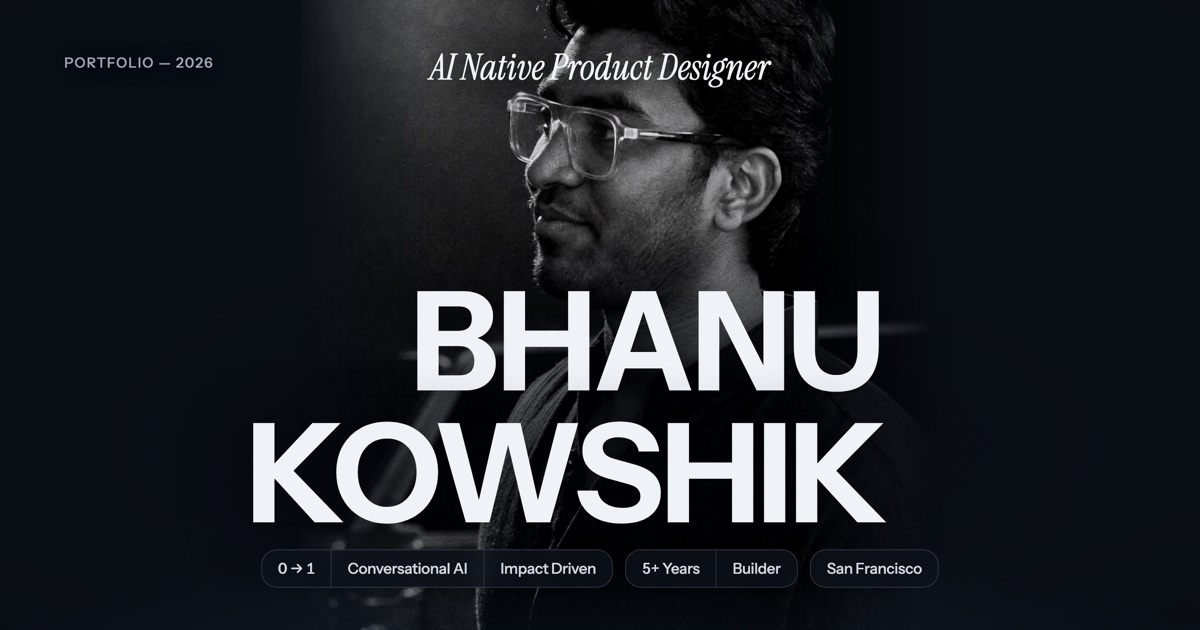
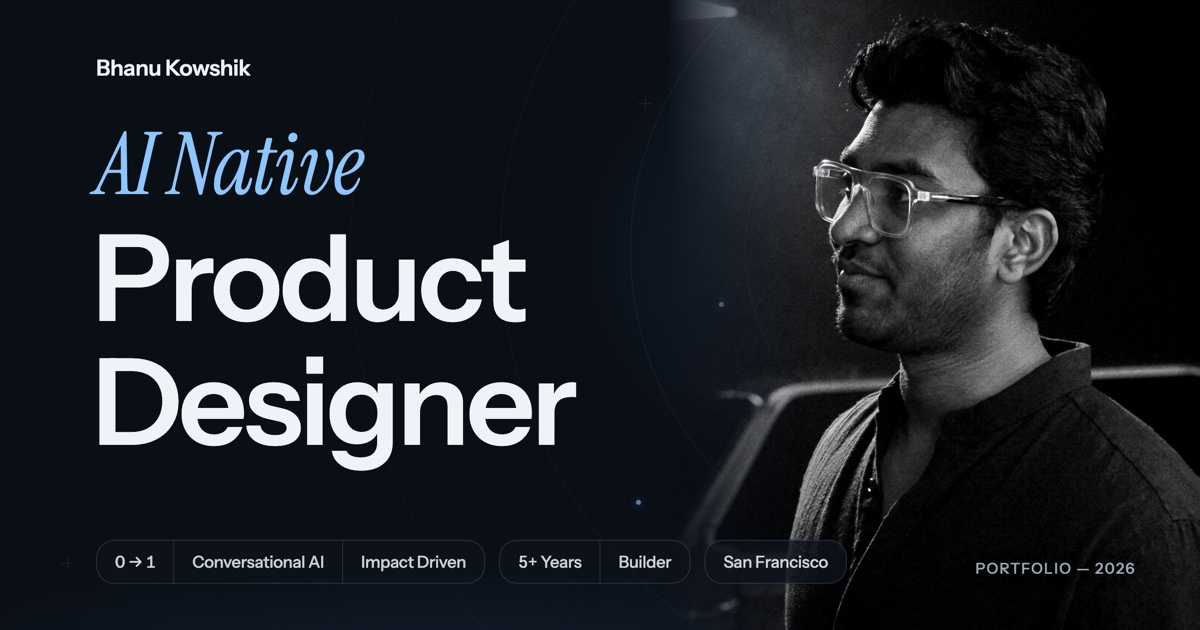
feat(share): og card v8 — the split returns, cleaner
The left-right layout comes back by request: 'AI Native' azure serif over
'Product / Designer' display sans on the left, cinematic Soul portrait on
the right — now without the blue face cast (tint confined to the background
haze corner) and without the sparks.

diff --git a/og-image.html b/og-image.html
@@ -1,7 +1,7 @@
 <!DOCTYPE html>
-<!-- Source for images/og-image.jpg (social share card) — v7:
-     full-bleed cinematic Soul portrait, centered PORT/FOLIO-style stacked
-     lockup over it (PRODUCT white / DESIGNER azure), pills centered bottom.
+<!-- Source for images/og-image.jpg (social share card) — v6:
+     cinematic Soul portrait right (images/bhanu-cinematic.jpg), "AI Native
+     Product Designer" display type left, three grouped fact pills bottom.
      Re-render after edits:
      "/Applications/Google Chrome.app/Contents/MacOS/Google Chrome" --headless=new --disable-gpu \
        --screenshot=og-2x.png --window-size=1200,630 --force-device-scale-factor=2 \
@@ -23,81 +23,99 @@
       color: #EFF3F8;
     }
 
-    /* ── the portrait, full-bleed backdrop; edges dissolve into navy ── */
-    .bg {
-      position: absolute; inset: 0; z-index: 1; overflow: hidden;
-      -webkit-mask-image: linear-gradient(to right, transparent 24.5%, #000 36%, #000 66%, transparent 78%);
-              mask-image: linear-gradient(to right, transparent 24.5%, #000 36%, #000 66%, transparent 78%);
-    }
-    .bg img {
-      position: absolute; width: 640px; left: 300px; top: -102px;
-      filter: brightness(.9) contrast(1.05);
-    }
-    /* a quiet dark pool behind the lockup so the type owns the lower half —
-       the face above stays clear */
-    .scrim {
-      position: absolute; inset: 0; z-index: 2;
-      background: radial-gradient(ellipse 58% 42% at 50% 70%, rgba(3,6,12,.46) 0%, rgba(3,6,12,.16) 55%, transparent 78%);
+    /* azure bloom + a breath along the bottom */
+    .bloom {
+      position: absolute; inset: 0;
+      background:
+        radial-gradient(ellipse 44% 58% at 80% 40%, rgba(92,169,255,.16) 0%, rgba(92,169,255,.06) 52%, transparent 76%),
+        radial-gradient(ellipse 80% 30% at 38% 108%, rgba(92,169,255,.10) 0%, transparent 70%);
     }
 
-    /* ── the lockup — stacked, staggered, two-tone ── */
-    .eyebrow {
-      position: absolute; left: 50%; top: 44px; transform: translateX(-50%); z-index: 4;
-      font-family: 'Instrument Serif', Georgia, serif; font-style: italic; font-weight: 400;
-      font-size: 36px; color: #EFF3F8; white-space: nowrap;
-      text-shadow: 0 4px 34px rgba(3,6,12,.85);
+    /* rings centered near the portrait's face */
+    .ring {
+      position: absolute; left: 960px; top: 250px; transform: translate(-50%, -50%);
+      border: 1px solid rgba(239,243,248,.07); border-radius: 50%;
     }
-    .t1 {
-      position: absolute; left: 50%; top: 272px; transform: translateX(calc(-50% + 46px)); z-index: 4;
-      font-weight: 700; font-size: 138px; line-height: 1; letter-spacing: -0.022em;
-      text-transform: uppercase; color: #EFF3F8; white-space: nowrap;
-      text-shadow: 0 8px 60px rgba(3,6,12,.85);
-    }
-    .t2 {
-      position: absolute; left: 50%; top: 404px; transform: translateX(calc(-50% - 34px)); z-index: 4;
-      font-weight: 700; font-size: 138px; line-height: 1; letter-spacing: -0.022em;
-      text-transform: uppercase; color: #EFF3F8; white-space: nowrap;
-      text-shadow: 0 8px 60px rgba(3,6,12,.85);
+    .r1 { width: 430px;  height: 430px; }
+    .r2 { width: 660px;  height: 660px;  border-color: rgba(239,243,248,.055); }
+    .r3 { width: 920px;  height: 920px;  border-color: rgba(239,243,248,.04); }
+    .r4 { width: 1220px; height: 1220px; border-color: rgba(239,243,248,.03); }
+    .dot {
+      position: absolute; width: 5px; height: 5px; border-radius: 50%;
+      background: rgba(140,197,255,.6); box-shadow: 0 0 9px rgba(92,169,255,.5);
     }
 
-    /* four-point spark, azure — the reference's twinkle */
+    .cross { position: absolute; width: 14px; height: 14px; opacity: .55; }
+    .cross::before, .cross::after { content: ''; position: absolute; background: rgba(160,205,255,.16); }
+    .cross::before { left: 0; right: 0; top: 50%; height: 1px; }
+    .cross::after  { top: 0; bottom: 0; left: 50%; width: 1px; }
+
     .spark { position: absolute; z-index: 4; }
     .spark svg { display: block; }
 
-    /* ── grouped fact pills, centered along the bottom ── */
-    .pills {
-      position: absolute; left: 50%; bottom: 42px; transform: translateX(-50%);
-      display: flex; gap: 12px; z-index: 4;
+    /* ── the cinematic portrait — its studio black melts into the canvas ── */
+    .cine {
+      position: absolute; left: 668px; top: 0; z-index: 2;
+      width: 532px; height: 630px; overflow: hidden;
+      -webkit-mask-image: linear-gradient(to right, transparent 0px, #000 150px);
+              mask-image: linear-gradient(to right, transparent 0px, #000 150px);
     }
+    .cine img {
+      position: absolute; width: 572px; left: -40px; top: -14px;
+      filter: contrast(1.04) brightness(1.02);
+    }
+    /* azure whisper on the background haze corner only — never on the skin */
+    .cine-tint {
+      position: absolute; left: 668px; top: 0; width: 532px; height: 630px; z-index: 3;
+      mix-blend-mode: overlay;
+      background: radial-gradient(ellipse 42% 34% at 10% 12%, rgba(92,169,255,.16) 0%, transparent 70%);
+      pointer-events: none;
+    }
+
+    /* ── left column ── */
+    .wordmark {
+      position: absolute; left: 96px; top: 54px; z-index: 4;
+      font-size: 22px; font-weight: 600; letter-spacing: -0.01em; color: #EFF3F8;
+    }
+
+    .n0 {
+      position: absolute; left: 96px; top: 122px; z-index: 4;
+      font-family: 'Instrument Serif', Georgia, serif; font-style: italic; font-weight: 400;
+      font-size: 86px; line-height: 1; letter-spacing: -0.008em; color: #8CC5FF;
+    }
+    .n1 {
+      position: absolute; left: 92px; top: 218px; z-index: 4;
+      font-weight: 600; font-size: 120px; line-height: 1.0;
+      letter-spacing: -0.032em; color: #EFF3F8;
+    }
+    .n2 {
+      position: absolute; left: 92px; top: 342px; z-index: 4;
+      font-weight: 600; font-size: 120px; line-height: 1.0;
+      letter-spacing: -0.032em; color: #EFF3F8;
+    }
+
+    /* ── grouped fact pills — the hero facts-strip, split in three ── */
+    .pills { position: absolute; left: 96px; top: 540px; display: flex; gap: 14px; z-index: 4; }
     .pill {
       display: inline-flex; align-items: stretch;
-      border: 1px solid rgba(239,243,248,0.15); border-radius: 16px;
+      border: 1px solid rgba(239,243,248,0.13); border-radius: 18px;
       background: rgba(13,18,27,.78);
-      font-size: 15px; font-weight: 500; letter-spacing: -0.012em;
-      color: rgba(239,243,248,.88); white-space: nowrap;
+      font-size: 16.5px; font-weight: 500; letter-spacing: -0.012em;
+      color: rgba(239,243,248,.85); white-space: nowrap;
       font-variant-numeric: tabular-nums lining-nums;
-      backdrop-filter: blur(6px); -webkit-backdrop-filter: blur(6px);
     }
-    .pill span { display: inline-flex; align-items: center; padding: 9px 16px; }
-    .pill span + span { border-left: 1px solid rgba(239,243,248,0.13); }
+    .pill span { display: inline-flex; align-items: center; padding: 11px 18px; }
+    .pill span + span { border-left: 1px solid rgba(239,243,248,0.12); }
 
-    .wordmark {
-      position: absolute; left: 64px; top: 50px; z-index: 4;
-      font-size: 20px; font-weight: 600; letter-spacing: -0.01em; color: #EFF3F8;
-      text-shadow: 0 2px 18px rgba(3,6,12,.8);
-    }
     .year {
-      position: absolute; right: 64px; top: 54px; z-index: 4;
-      font-size: 14px; font-weight: 520; letter-spacing: .08em; color: #9AA6B4;
-      text-shadow: 0 2px 18px rgba(3,6,12,.8);
+      position: absolute; right: 64px; bottom: 52px; z-index: 4;
+      font-size: 15px; font-weight: 520; letter-spacing: .08em; color: #9AA6B4;
+      text-shadow: 0 1px 12px rgba(3,6,12,.8);
     }
 
-    /* atmosphere on top — the reference's heavy edge vignette */
     .vignette {
-      position: absolute; inset: 0; z-index: 3; pointer-events: none;
-      background:
-        radial-gradient(135% 110% at 50% 44%, transparent 48%, rgba(3,6,12,.62) 100%),
-        radial-gradient(ellipse 80% 26% at 50% 106%, rgba(92,169,255,.10) 0%, transparent 68%);
+      position: absolute; inset: 0; z-index: 5; pointer-events: none;
+      background: radial-gradient(135% 105% at 50% 46%, transparent 56%, rgba(3,6,12,0.55) 100%);
     }
     .grain {
       position: absolute; inset: 0; z-index: 6; opacity: .05; mix-blend-mode: overlay; pointer-events: none;
@@ -106,15 +124,29 @@
   </style>
 </head>
 <body>
-  <div class="bg"><img src="images/bhanu-cinematic.jpg" alt="" /></div>
-  <div class="scrim"></div>
-  <div class="vignette"></div>
+  <div class="bloom"></div>
 
-  <div class="eyebrow">AI Native Product Designer</div>
-  <div class="t1">Bhanu</div>
-  <div class="t2">Kowshik</div>
+  <div class="ring r1"></div>
+  <div class="ring r2"></div>
+  <div class="ring r3"></div>
+  <div class="ring r4"></div>
 
-  <div class="year" style="right: auto; left: 64px;">PORTFOLIO — 2026</div>
+  <div class="dot" style="left: 719px; top: 302px;"></div>
+  <div class="dot" style="left: 1146px; top: 155px;"></div>
+  <div class="dot" style="left: 828px; top: 40px;"></div>
+  <div class="dot" style="left: 636px; top: 500px;"></div>
+
+  <div class="cross" style="left: 638px; top: 96px;"></div>
+  <div class="cross" style="left: 60px; top: 556px;"></div>
+
+  <div class="cine"><img src="images/bhanu-cinematic.jpg" alt="" /></div>
+  <div class="cine-tint"></div>
+
+  <div class="wordmark">Bhanu Kowshik</div>
+
+  <div class="n0">AI Native</div>
+  <div class="n1">Product</div>
+  <div class="n2">Designer</div>
 
   <div class="pills">
     <span class="pill"><span>0 → 1</span><span>Conversational AI</span><span>Impact Driven</span></span>
@@ -122,6 +154,9 @@
     <span class="pill"><span>San Francisco</span></span>
   </div>
 
+  <div class="year">PORTFOLIO — 2026</div>
+
+  <div class="vignette"></div>
   <div class="grain"></div>
 </body>
 </html>

diff --git a/index.html b/index.html
@@ -21,7 +21,7 @@
   <meta property="og:image" content="https://bhanukowshik.netlify.app/images/og-image.jpg" />
   <meta property="og:image:width" content="1200" />
   <meta property="og:image:height" content="630" />
-  <meta property="og:image:alt" content="Bhanu Kowshik in large stacked type over a cinematic black-and-white portrait — AI Native Product Designer — with credentials: 0 to 1, Conversational AI, Impact Driven, 5+ Years, Builder, San Francisco" />
+  <meta property="og:image:alt" content="AI Native Product Designer in large type beside a cinematic black-and-white portrait of Bhanu, with credentials: 0 to 1, Conversational AI, Impact Driven, 5+ Years, Builder, San Francisco" />
   <meta name="twitter:card" content="summary_large_image" />
   <meta name="twitter:title" content="Bhanu Kowshik · AI Native Product Designer" />
   <meta name="twitter:description" content="Portfolio of Bhanu Kowshik — AI Native Product Designer." />

diff --git a/hero-lab.html b/hero-lab.html
@@ -13,7 +13,7 @@
 <meta property="og:image" content="https://bhanu.design/images/og-image.jpg" />
 <meta property="og:image:width" content="1200" />
 <meta property="og:image:height" content="630" />
-<meta property="og:image:alt" content="Bhanu Kowshik in large stacked type over a cinematic black-and-white portrait — AI Native Product Designer — with credentials: 0 to 1, Conversational AI, Impact Driven, 5+ Years, Builder, San Francisco" />
+<meta property="og:image:alt" content="AI Native Product Designer in large type beside a cinematic black-and-white portrait of Bhanu, with credentials: 0 to 1, Conversational AI, Impact Driven, 5+ Years, Builder, San Francisco" />
 <meta name="twitter:card" content="summary_large_image" />
 <meta name="twitter:image" content="https://bhanu.design/images/og-image.jpg" />
 <link rel="icon" type="image/png" href="images/logo-bk-favicon.png" />
